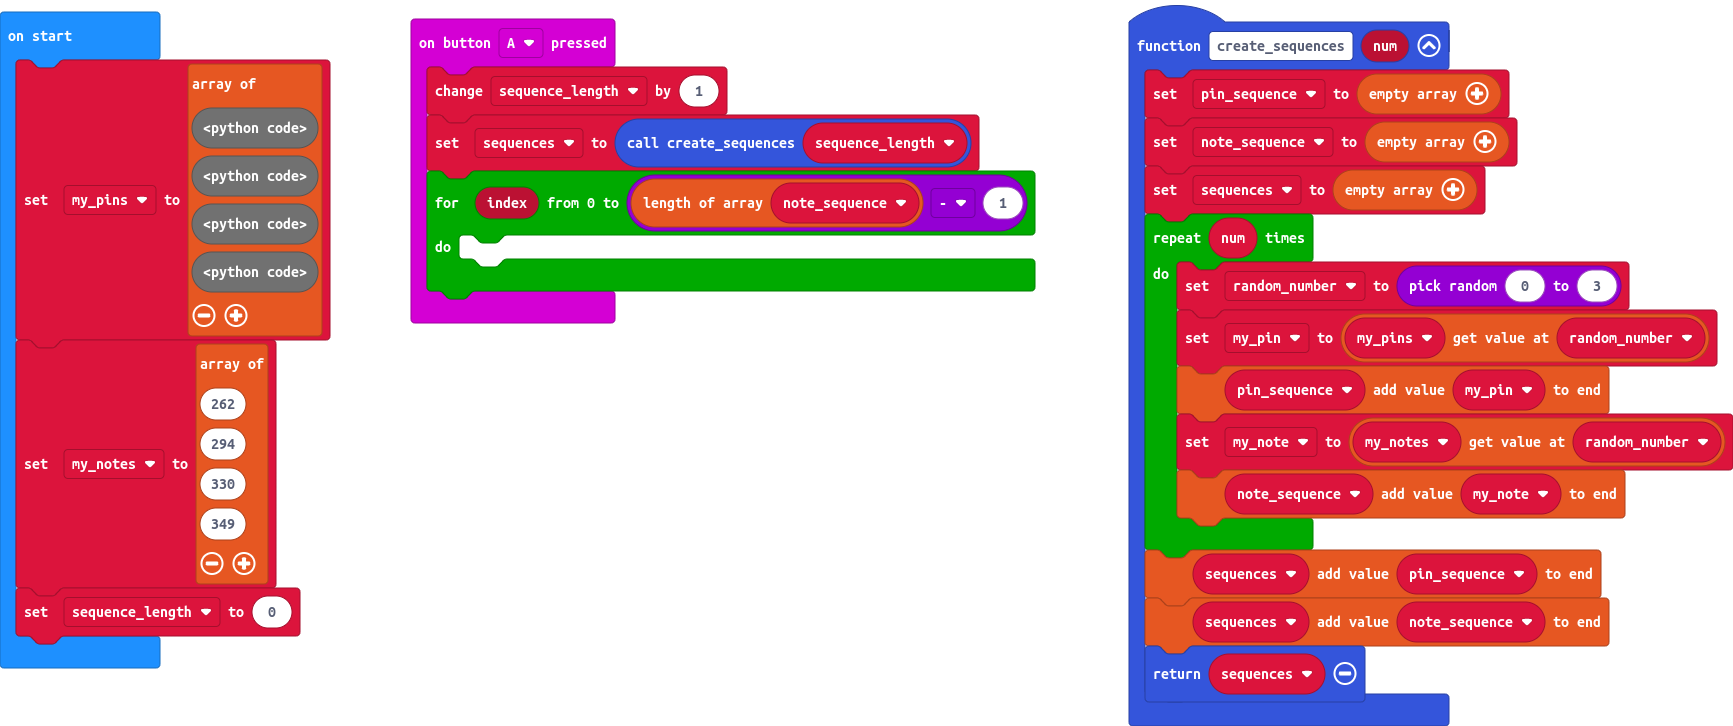
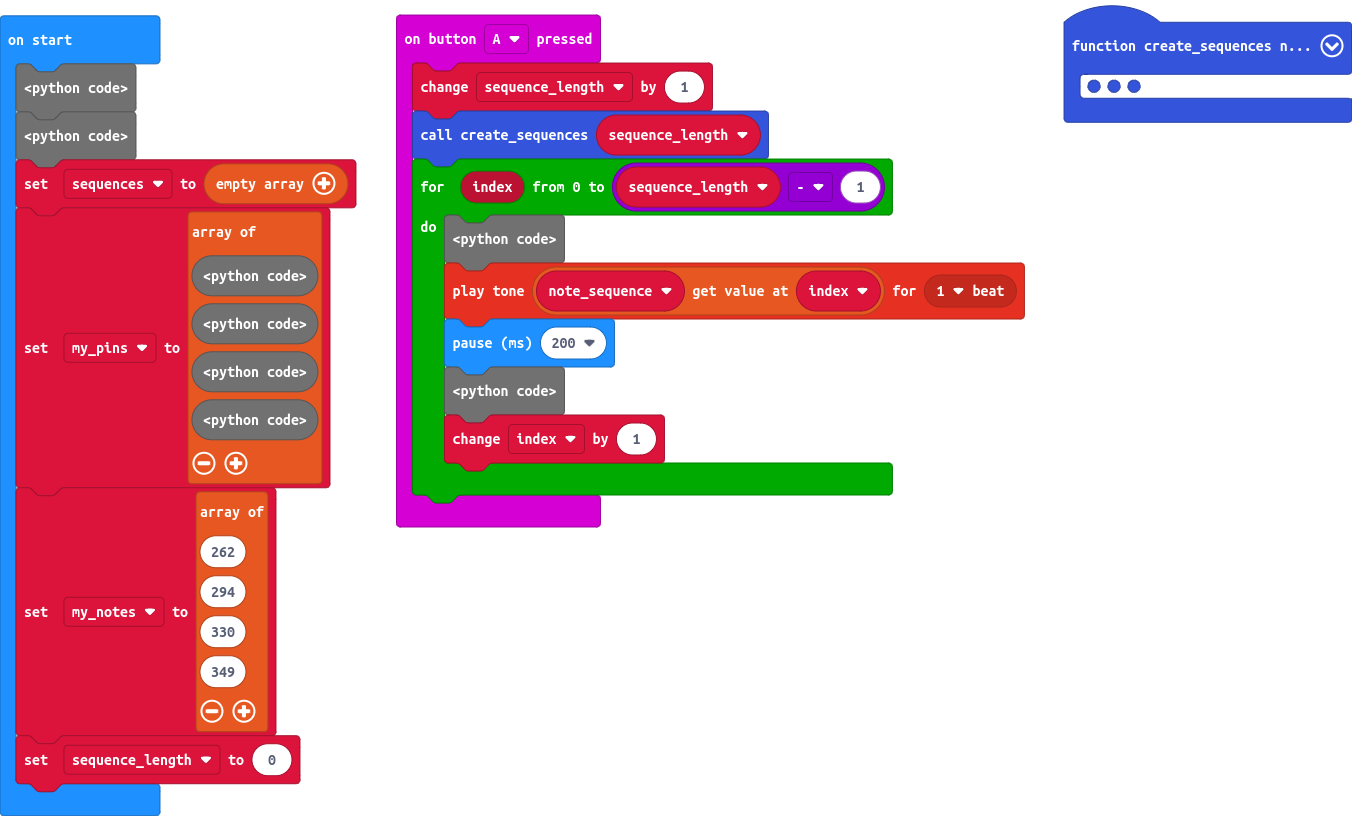
Update main.blocks, main.ts, main.py

diff --git a/main.ts b/main.ts
@@ -1,34 +1,35 @@
 input.onButtonPressed(Button.A, function () {
     sequence_length += 1
-    sequences = create_sequences(sequence_length)
-    for (let index = 0; index <= note_sequence.length - 1; index++) {
-    	
+    create_sequences(sequence_length)
+    for (let index = 0; index <= sequence_length - 1; index++) {
+        pins.digitalWritePin(pin_sequence[index], 1)
+music.playTone(note_sequence[index], music.beat(BeatFraction.Whole))
+        basic.pause(200)
+        pins.digitalWritePin(pin_sequence[index], 0)
+index += 1
     }
 })
 function create_sequences (num: number) {
     pin_sequence = []
     note_sequence = []
-    sequences = []
-    for (let index = 0; index < num; index++) {
+    for (let index2 = 0; index2 < num; index2++) {
         random_number = randint(0, 3)
         my_pin = my_pins[random_number]
         pin_sequence.push(my_pin)
         my_note = my_notes[random_number]
         note_sequence.push(my_note)
     }
-    sequences.push(pin_sequence)
-    sequences.push(note_sequence)
-    return sequences
 }
 let my_note = 0
 let my_pin = 0
 let random_number = 0
-let pin_sequence: number[] = []
 let note_sequence: number[] = []
-let sequences: Array[] = []
 let sequence_length = 0
 let my_notes: number[] = []
 let my_pins: number[] = []
+let index = 0
+let pin_sequence : number[] = []
+let sequences: number[] = []
 my_pins = [
 DigitalPin.P0,
 DigitalPin.P1,

diff --git a/main.py b/main.py
@@ -1,44 +1,35 @@
-input.onButtonPressed(Button.A, function () {
+def on_button_pressed_a():
+    global sequence_length, index
     sequence_length += 1
-    sequences = create_sequences(sequence_length)
-    for (let index = 0; index <= note_sequence.length - 1; index++) {
-    	
-    }
-})
-function create_sequences (num: number) {
+    create_sequences(sequence_length)
+    while index <= sequence_length - 1:
+        music.play_tone(note_sequence[index], music.beat(BeatFraction.WHOLE))
+        pins.digital_write_pin(pin_sequence[index], 1)
+        basic.pause(200)
+        pins.digital_write_pin(pin_sequence[index], 0)
+        index += 1
+input.on_button_pressed(Button.A, on_button_pressed_a)
+
+def create_sequences(num: number):
+    global pin_sequence, note_sequence, random_number, my_pin, my_note
     pin_sequence = []
     note_sequence = []
-    sequences = []
-    for (let index = 0; index < num; index++) {
+    for index2 in range(num):
         random_number = randint(0, 3)
         my_pin = my_pins[random_number]
-        pin_sequence.push(my_pin)
+        pin_sequence.append(my_pin)
         my_note = my_notes[random_number]
-        note_sequence.push(my_note)
-    }
-    sequences.push(pin_sequence)
-    sequences.push(note_sequence)
-    return sequences
-}
-let my_note = 0
-let my_pin = 0
-let random_number = 0
-let pin_sequence: number[] = []
-let note_sequence: number[] = []
-let sequences: Array[] = []
-let sequence_length = 0
-let my_notes: number[] = []
-let my_pins: number[] = []
-my_pins = [
-DigitalPin.P0,
-DigitalPin.P1,
-DigitalPin.P2,
-DigitalPin.P3
-]
-my_notes = [
-262,
-294,
-330,
-349
-]
+        note_sequence.append(my_note)
+my_note = 0
+my_pin = 0
+random_number = 0
+note_sequence: List[number] = []
+sequence_length = 0
+my_notes: List[number] = []
+my_pins: List[number] = []
+sequences: List[number] = []
+pin_sequence: List[number] = []
+index = 0
+my_pins = [DigitalPin.P0, DigitalPin.P1, DigitalPin.P2, DigitalPin.P3]
+my_notes = [262, 294, 330, 349]
 sequence_length = 0
